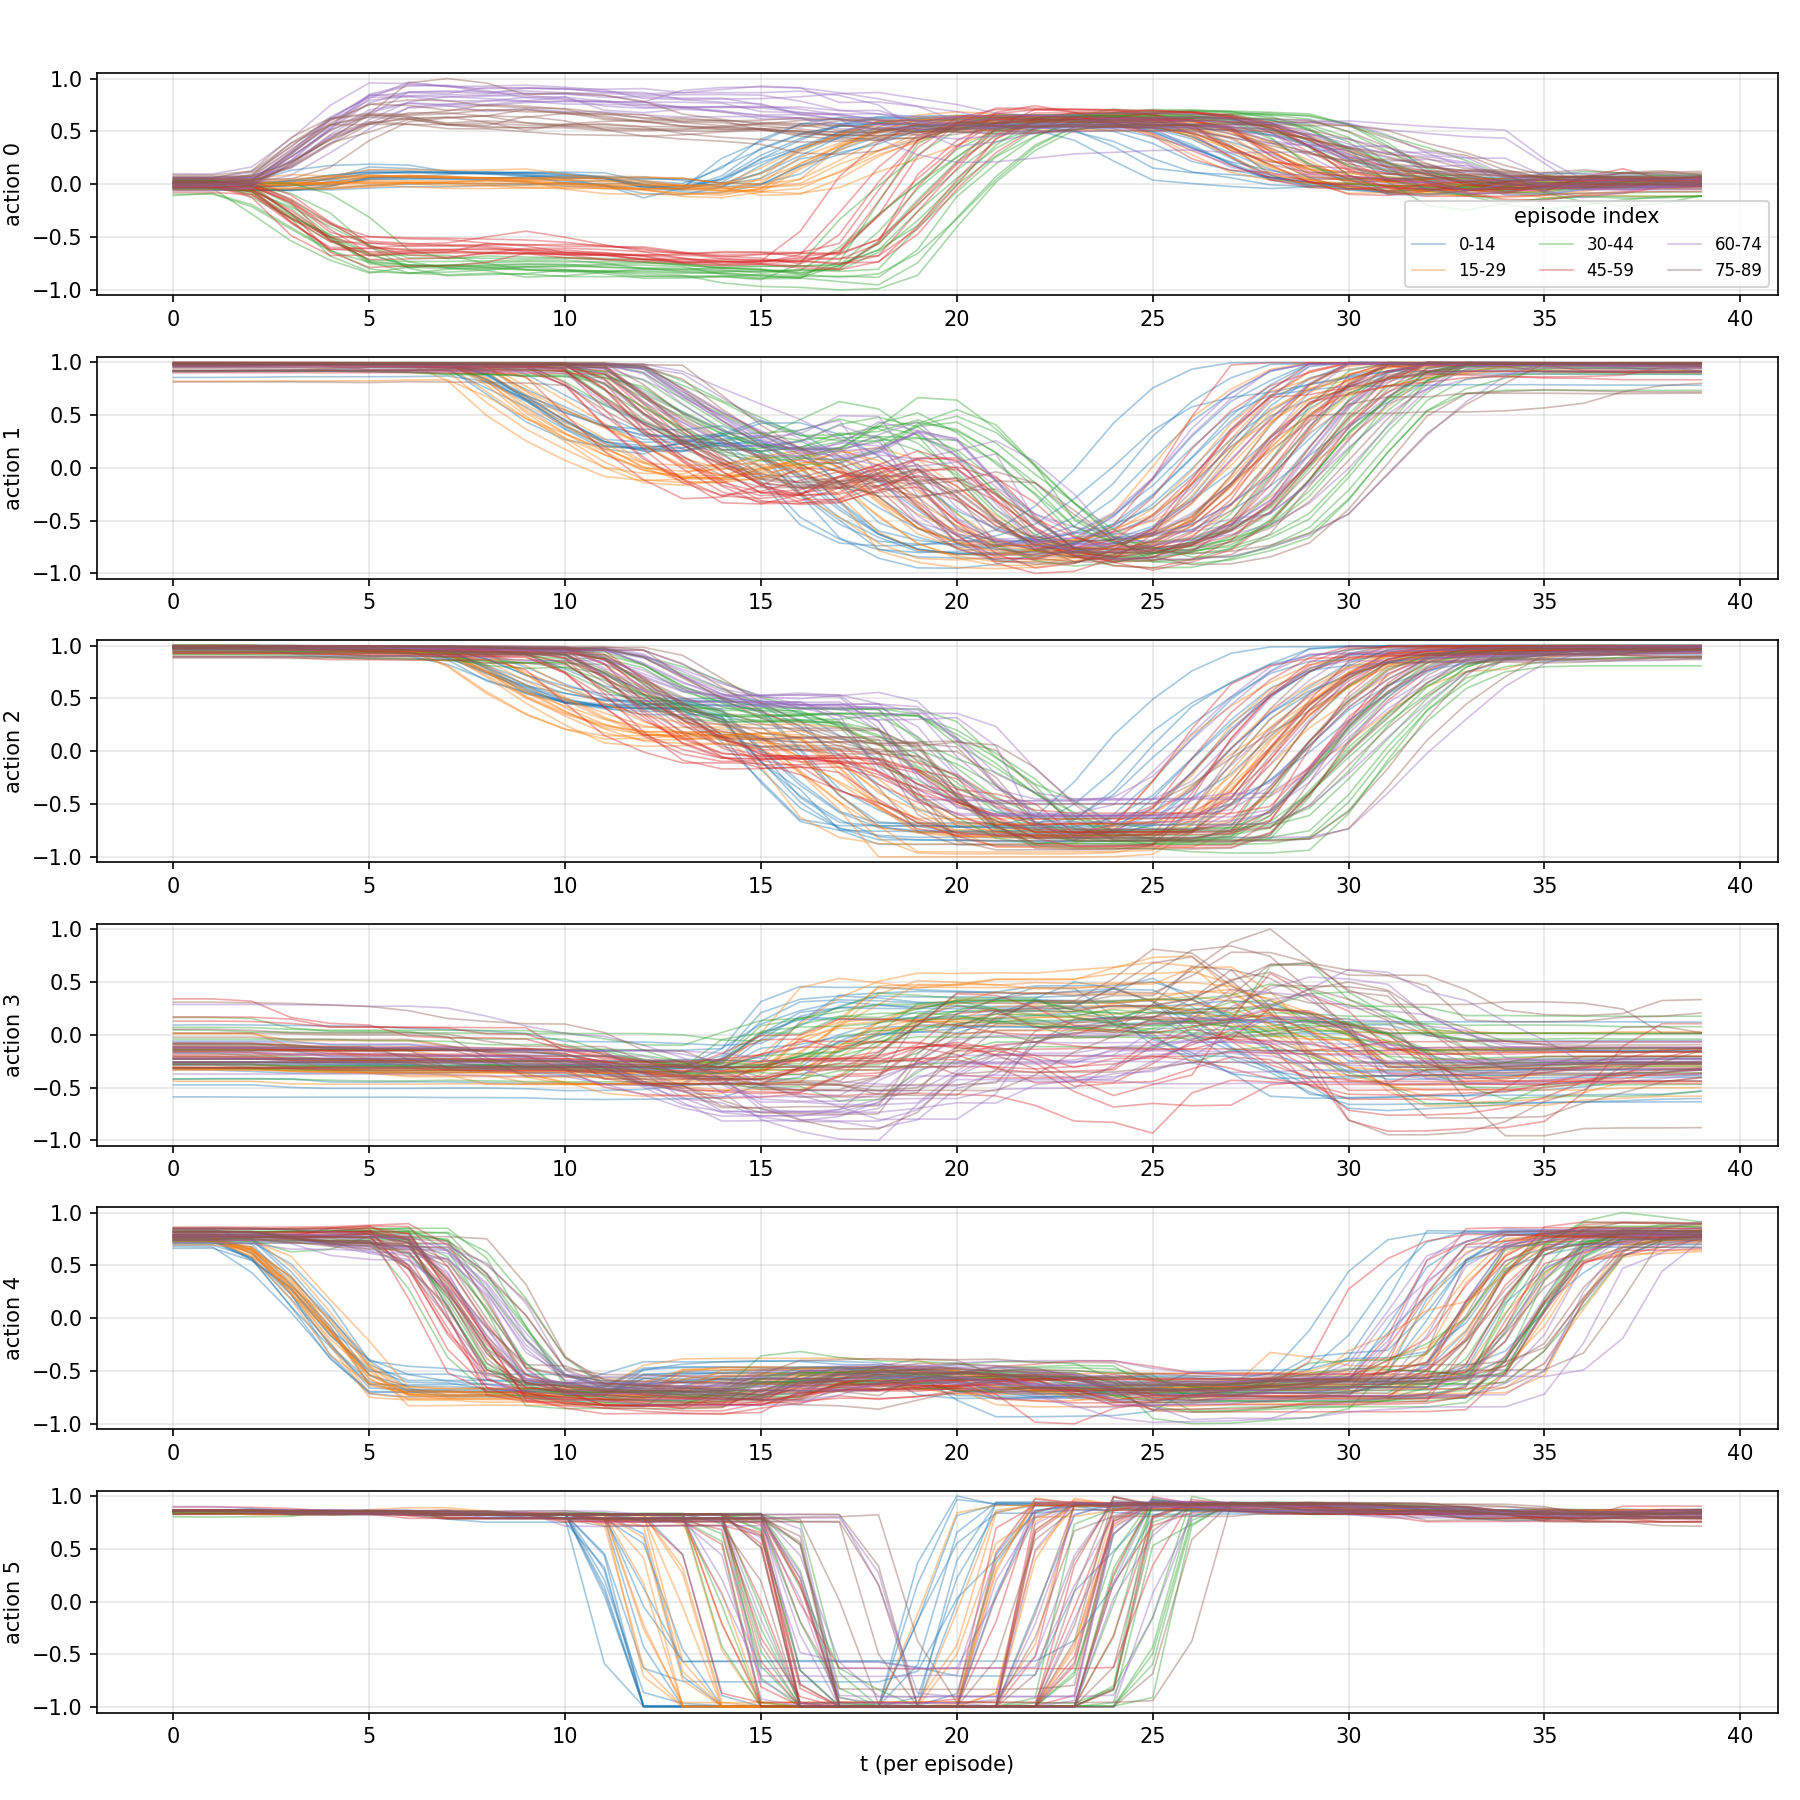
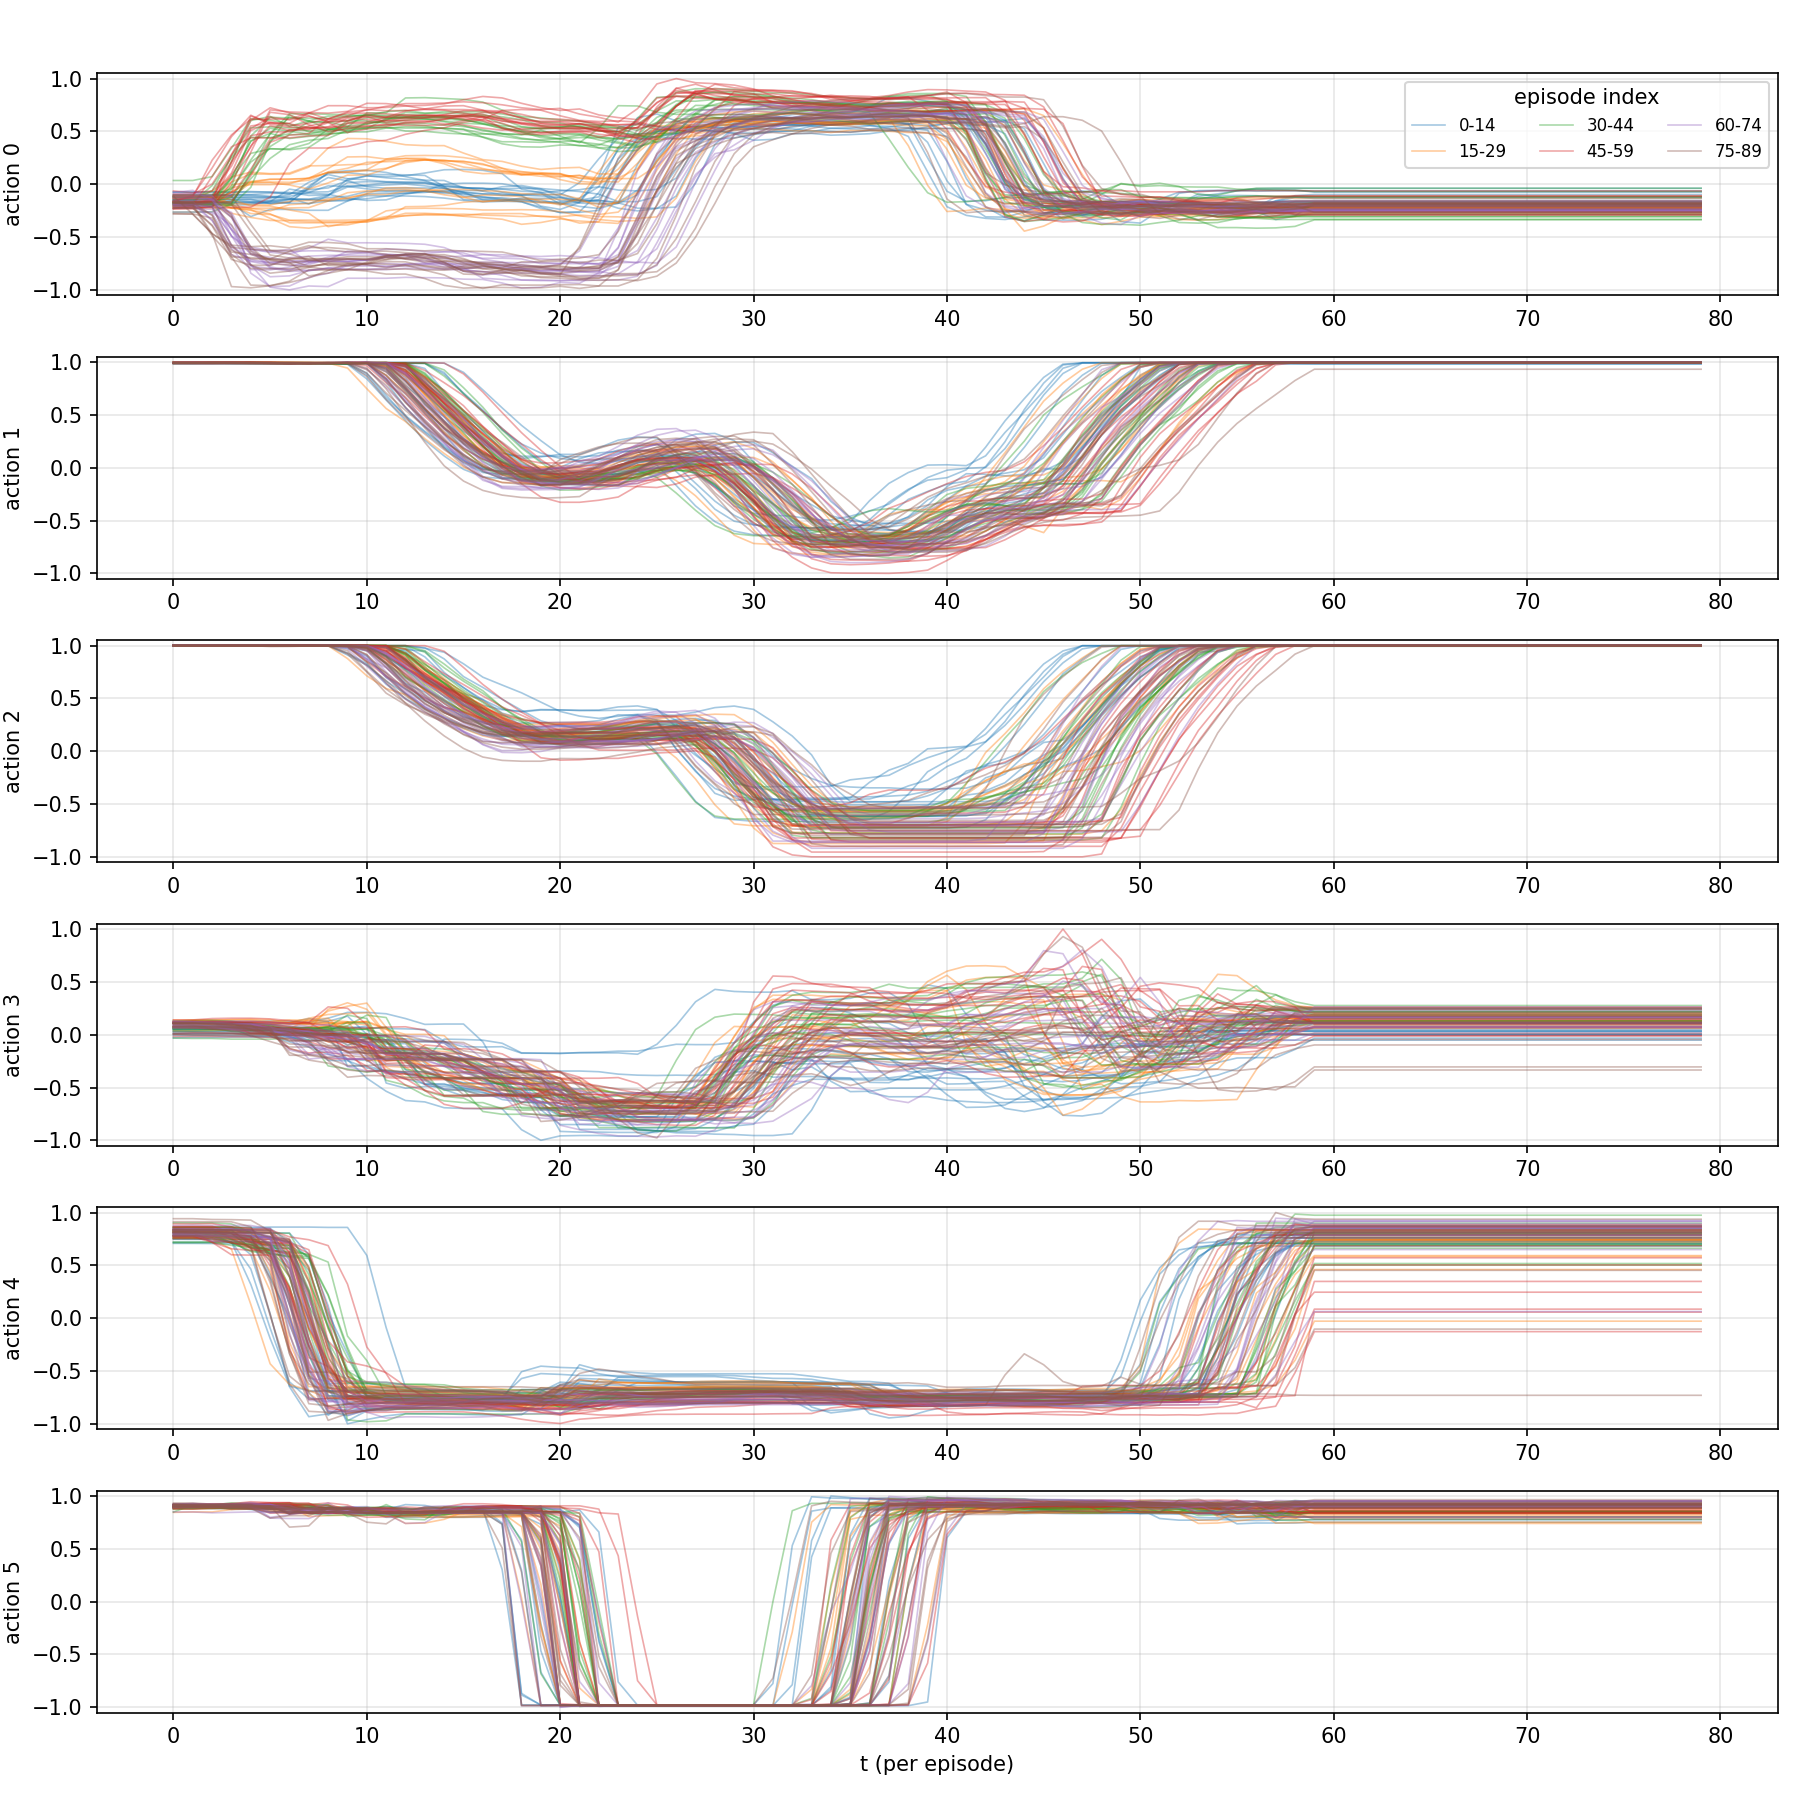
静止したグラフを可視化

Changed region(s): [[0.0933, 0.0311, 0.9956, 0.4978], [0.0933, 0.5289, 0.9644, 0.9644], [0.84, 0.4667, 0.8711, 0.4978]]

diff --git a/kadai3/plot_joint_normalized.py b/kadai3/plot_joint_normalized.py
@@ -18,6 +18,17 @@ def _load_blosc2_tensor(path: Path) -> np.ndarray:
     _, shape, dtype = schunk.vlmeta[b"__pack_tensor__"]
     return np.frombuffer(schunk[:], dtype=np.dtype(dtype)).reshape(shape)
 
+def _extend_tail(episodes: list[np.ndarray], k: int = 20) -> list[np.ndarray]:
+    out = []
+    for ep in episodes:
+        ep = np.asarray(ep, dtype=np.float32)
+        if len(ep) == 0:
+            out.append(ep)
+            continue
+        # 末尾をkステップ延長（最後の値を繰り返す）
+        pad = np.repeat(ep[-1:], k, axis=0)
+        out.append(np.concatenate([ep, pad], axis=0))
+    return out
 
 def _split_concat(arr: np.ndarray) -> list[np.ndarray]:
     if isinstance(arr, np.ndarray) and arr.dtype == object:
@@ -93,8 +104,8 @@ def main() -> None:
     joint_concat = _load_blosc2_tensor(joint_path)
     action_concat = _load_blosc2_tensor(action_path)
 
-    joint_eps = _split_concat(joint_concat)
-    action_eps = _split_concat(action_concat)
+    joint_eps = _extend_tail(joint_concat)
+    action_eps = _extend_tail(action_concat)
 
     _plot_normalized(
         episodes=joint_eps,
